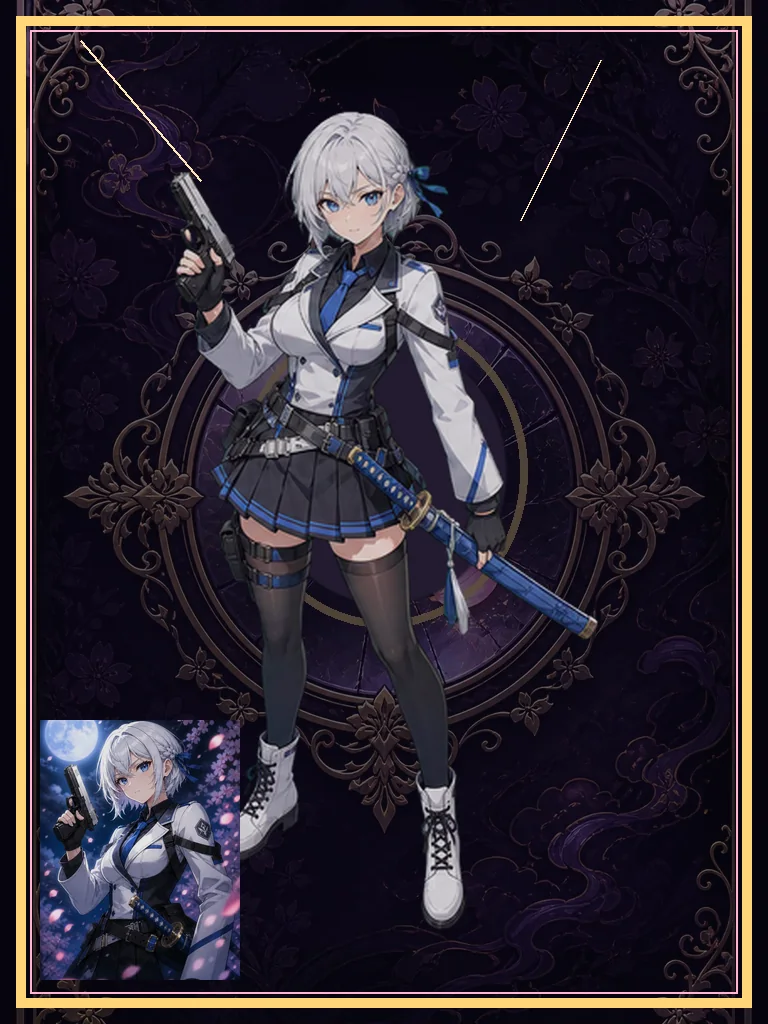
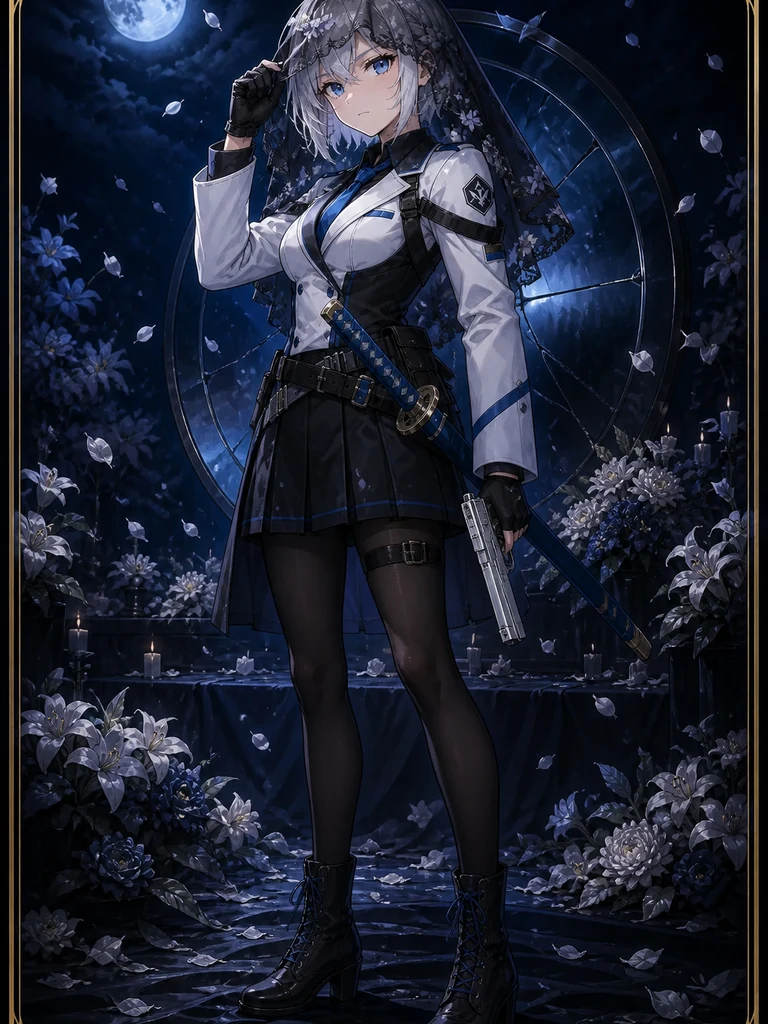
feat: replace 18 non-legend fashion and weapon covers
Generate unique 768x1024 cards and split the neon/radio and
keiko/wood duplicate pairs. Legendary and remnant art stay put.

diff --git a/docs/FASHION_FACE_CHECK.md b/docs/FASHION_FACE_CHECK.md
@@ -1,0 +1,28 @@
+# 换拼卡认人抽查（刀 1）
+
+2026-08-19。人打「过 / 哪几张重画」。超过 24 小时不回，按本表自检继续，不堵流水线。
+
+路径：`android-app/app/src/main/assets/game/art/gacha/{id}.webp`，768×1024。只换 18 张非传说时装/武器。未覆盖旧 8 张、14 张 `school_*`、28 张 `job_*`、24 张 `fusion_*`、6 张传说、`banner_bg` / `card_back` / `hero_*`。
+
+绫枪不举到脸边、不朝天。不画双人拼脸。现网两对重复图已拆开。
+
+| id | 角色或兵器 | 发色 | 失败痕迹 | 与另一 id 哈希相同 | 自检 |
+|---|---|---|---|---|---|
+| fashion_sayo_plain | 小夜 常服白羽织 | 紫黑 | 袖口起线、旧步枪 | 否 | 是 |
+| fashion_sayo_neon | 小夜 霓虹夜 | 紫黑 | 灯照伤口、电台在脚边 | 否（≠ radio_bat） | 是 |
+| fashion_sayo_night | 小夜 夜巡鸟居 | 紫黑 | 空班、低月、步枪背着 | 否 | 是 |
+| fashion_aya_suit | 绫 企业制服 | 银白 | 工牌作废、枪在腰侧朝下 | 否 | 是 |
+| fashion_aya_coat | 绫 风衣 | 银白 | 作废券露在内袋、枪口朝下 | 否 | 是 |
+| fashion_aya_veil | 绫 葬仪面纱 | 银白 | 花瓣粘纱、枪垂在身侧 | 否 | 是 |
+| fashion_rion_keiko | 凛音 稽古道服 | 黑红 | 空道场、完好木刀鞠躬 | 否（≠ wood） | 是 |
+| fashion_rion_haori | 凛音 家纹羽织 | 黑红 | 刀藏袖、未写完的名 | 否 | 是 |
+| fashion_rion_bloom | 凛音 花葬剑冢 | 黑红 | 彼岸花、折剑、无宾客 | 否 | 是 |
+| weapon_sayo_spare | 小夜 备用弹匣 | 紫黑 | 数过仍不够、空仓 | 否 | 是 |
+| weapon_sayo_petal | 小夜 花瓣弹匣 | 紫黑 | 花先落地、弹打不出去 | 否 | 是 |
+| weapon_aya_side | 绫 侧持短铳 | 银白 | 刀没出鞘、铳口朝下已空 | 否 | 是 |
+| weapon_aya_twin | 绫 双持月切 | 银白 | 枪刀互抢、两手都沾花 | 否 | 是 |
+| weapon_rion_wood | 凛音 折断木刀 | 黑红 | 跪看裂开的无铭木刀 | 否（≠ keiko） | 是 |
+| weapon_rion_under | 凛音 鞘中空 | 黑红 | 鞘裂、里面是空的 | 否 | 是 |
+| weapon_mirror_round | 绫 圆镜盾刃 | 银白 | 挡一次就裂、无第四张脸 | 否 | 是 |
+| weapon_shard_blade | 小夜 裂镜片刃 | 紫黑 | 刃从碎镜长出、比人薄 | 否 | 是 |
+| weapon_radio_bat | 小夜 电台短棍 | 紫黑 | 天线当棍、电流还在笑 | 否（≠ neon） | 是 |
